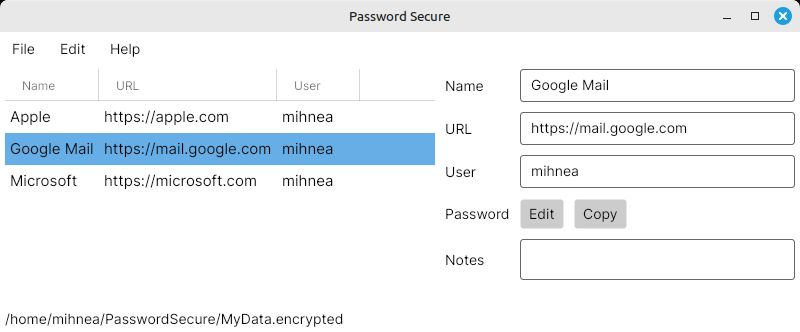
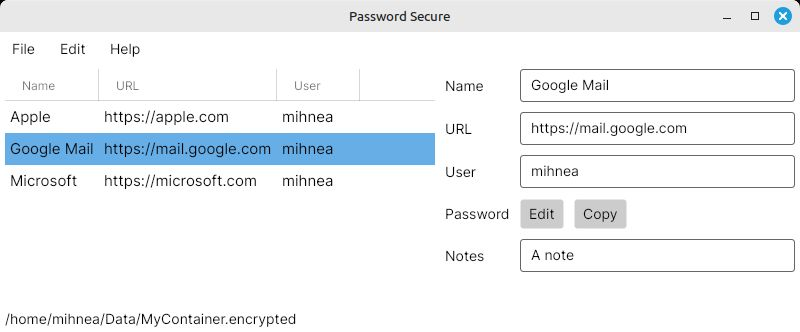
Added flatpak-specific build options

diff --git a/PasswordSecure/Presentation/MainPresenter.cs b/PasswordSecure/Presentation/MainPresenter.cs
@@ -1,6 +1,5 @@
 using System;
 using System.Collections.Generic;
-using System.IO;
 using System.Linq;
 using System.Threading.Tasks;
 using Avalonia.Controls;
@@ -20,15 +19,13 @@ public class MainPresenter
 {
 	static MainPresenter()
 	{
-		EncryptedDataFolderPath = GetEncryptedDataFolderPath();
-		CreateEncryptedDataFolderIfNecessary();
-
 		EncryptedFileTypes = GetEncryptedFileTypes();
 	}
 	
 	public MainPresenter(
 		IDataAccessService dataAccessService,
 		IAssemblyVersionProvider assemblyVersionProvider,
+		IEncryptedDataFolderProvider encryptedDataFolderProvider,
 		MainWindow mainWindow)
 	{
 		_dataAccessService = dataAccessService;
@@ -48,21 +45,23 @@ public class MainPresenter
 		_mainWindow.HelpMenuClicked += OnHelpMenuClicked;
 
 		_accessParams = new AccessParams();
+		
+		_encryptedDataFolderPath = encryptedDataFolderProvider.GetEncryptedDataFolderPath();
 	}
 
 	#region Private
-
-	private static readonly string EncryptedDataFolderPath;
+	
 	private static readonly IReadOnlyList<FilePickerFileType> EncryptedFileTypes;
 	
-	private const string EncryptedDataFolderName = "PasswordSecure";
 	private const int MinimumMasterPasswordLength = 8;
-	
+
 	private readonly IDataAccessService _dataAccessService;
 	private readonly IAssemblyVersionProvider _assemblyVersionProvider;
 
 	private readonly MainWindow _mainWindow;
 	private readonly AccessParams _accessParams;
+	
+	private readonly string _encryptedDataFolderPath;
 
 	private void OnVisualStateChanged(object? sender, EventArgs e) => _mainWindow.EnableControls();
 	
@@ -320,29 +319,7 @@ public class MainPresenter
 	}
 	
 	private async Task<IStorageFolder?> GetEncryptedDataFolder()
-		=> await _mainWindow.StorageProvider.TryGetFolderFromPathAsync(EncryptedDataFolderPath);
-
-	private static string GetEncryptedDataFolderPath()
-	{
-		var userProfilePath = Environment.GetFolderPath(Environment.SpecialFolder.UserProfile);
-		var encryptedDataFolderPath = Path.Combine(userProfilePath, EncryptedDataFolderName);
-		
-		return encryptedDataFolderPath;
-	}
-	
-	private static void CreateEncryptedDataFolderIfNecessary()
-	{
-		try
-		{
-			if (!Directory.Exists(EncryptedDataFolderPath))
-			{
-				Directory.CreateDirectory(EncryptedDataFolderPath);
-			}
-		}
-		catch
-		{
-		}
-	}
+		=> await _mainWindow.StorageProvider.TryGetFolderFromPathAsync(_encryptedDataFolderPath);
 
 	private static IReadOnlyList<FilePickerFileType> GetEncryptedFileTypes()
 	{

diff --git a/PasswordSecure/App.axaml.cs b/PasswordSecure/App.axaml.cs
@@ -1,3 +1,5 @@
+//#define FLATPAK_BUILD
+
 using Avalonia.Markup.Xaml;
 using PasswordSecure.Application.Providers;
 using PasswordSecure.Application.Services;
@@ -34,8 +36,16 @@ public class App : Avalonia.Application
         IDataAccessService dataAccessServiceDecorated = new TaskDecoratorDataAccessService(
             dataAccessService);
 
+        IEncryptedDataFolderProvider encryptedDataFolderProvider;
+        #if FLATPAK_BUILD
+            encryptedDataFolderProvider = new FlatpakEncryptedDataFolderProvider();
+        #else
+            encryptedDataFolderProvider = new DefaultEncryptedDataFolderProvider();
+        #endif
+
         var mainWindow = new MainWindow();
-        var mainPresenter = new MainPresenter(dataAccessServiceDecorated, assemblyVersionProvider, mainWindow);
+        var mainPresenter = new MainPresenter(
+            dataAccessServiceDecorated, assemblyVersionProvider, encryptedDataFolderProvider, mainWindow);
         
         mainWindow.Show();
     }

diff --git a/PasswordSecure/Infrastructure/Providers/FlatpakEncryptedDataFolderProvider.cs b/PasswordSecure/Infrastructure/Providers/FlatpakEncryptedDataFolderProvider.cs
@@ -1,0 +1,23 @@
+using System;
+using System.IO;
+using PasswordSecure.Application.Providers;
+
+namespace PasswordSecure.Infrastructure.Providers;
+
+public class FlatpakEncryptedDataFolderProvider : IEncryptedDataFolderProvider
+{
+    public string GetEncryptedDataFolderPath()
+    {
+        var sandboxedApplicationPath = Environment.GetFolderPath(Environment.SpecialFolder.ApplicationData)
+            .Replace("/config", string.Empty);
+        
+        var encryptedDataFolderPath = Path.Combine(sandboxedApplicationPath, EncryptedDataFolderName);
+        return encryptedDataFolderPath;
+    }
+    
+    #region Private
+    
+    private const string EncryptedDataFolderName = "EncryptedData";
+
+    #endregion
+}

diff --git a/PasswordSecure/Infrastructure/Providers/DefaultEncryptedDataFolderProvider.cs b/PasswordSecure/Infrastructure/Providers/DefaultEncryptedDataFolderProvider.cs
@@ -1,0 +1,9 @@
+using System;
+using PasswordSecure.Application.Providers;
+
+namespace PasswordSecure.Infrastructure.Providers;
+
+public class DefaultEncryptedDataFolderProvider : IEncryptedDataFolderProvider
+{
+    public string GetEncryptedDataFolderPath() => Environment.GetFolderPath(Environment.SpecialFolder.UserProfile);
+}

diff --git a/PasswordSecure/Application/Providers/IEncryptedDataFolderProvider.cs b/PasswordSecure/Application/Providers/IEncryptedDataFolderProvider.cs
@@ -1,0 +1,6 @@
+namespace PasswordSecure.Application.Providers;
+
+public interface IEncryptedDataFolderProvider
+{
+    string GetEncryptedDataFolderPath();
+}
